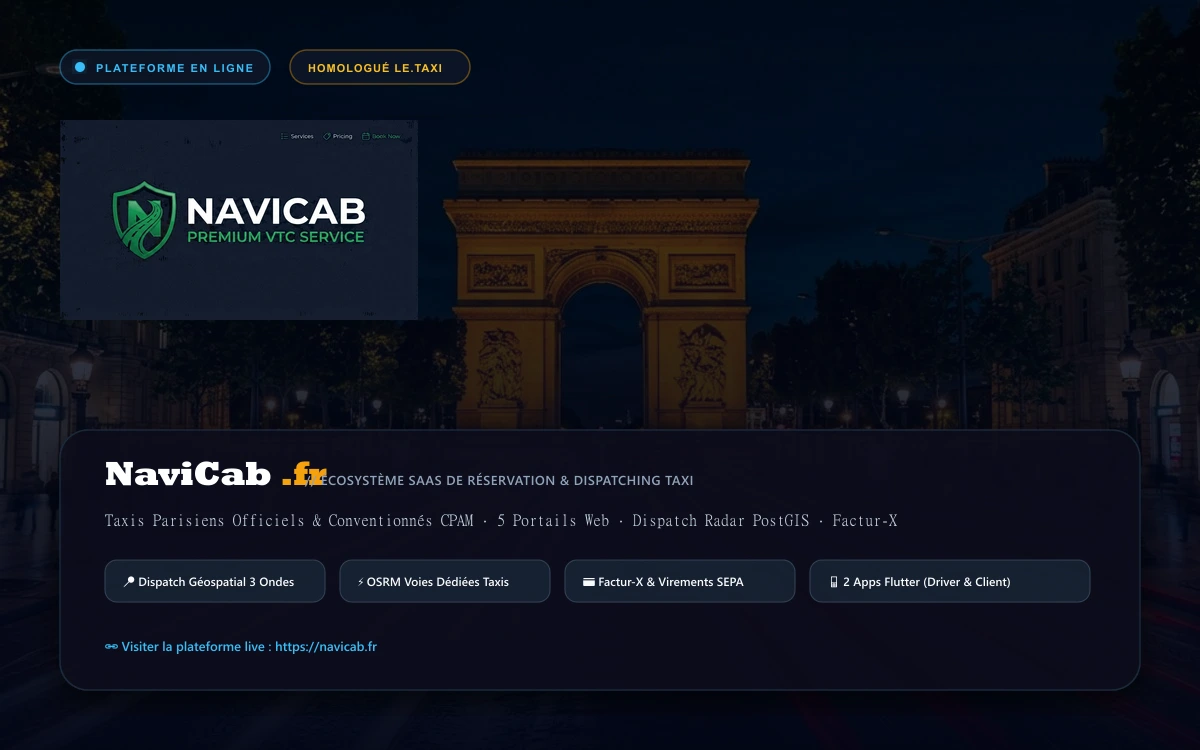
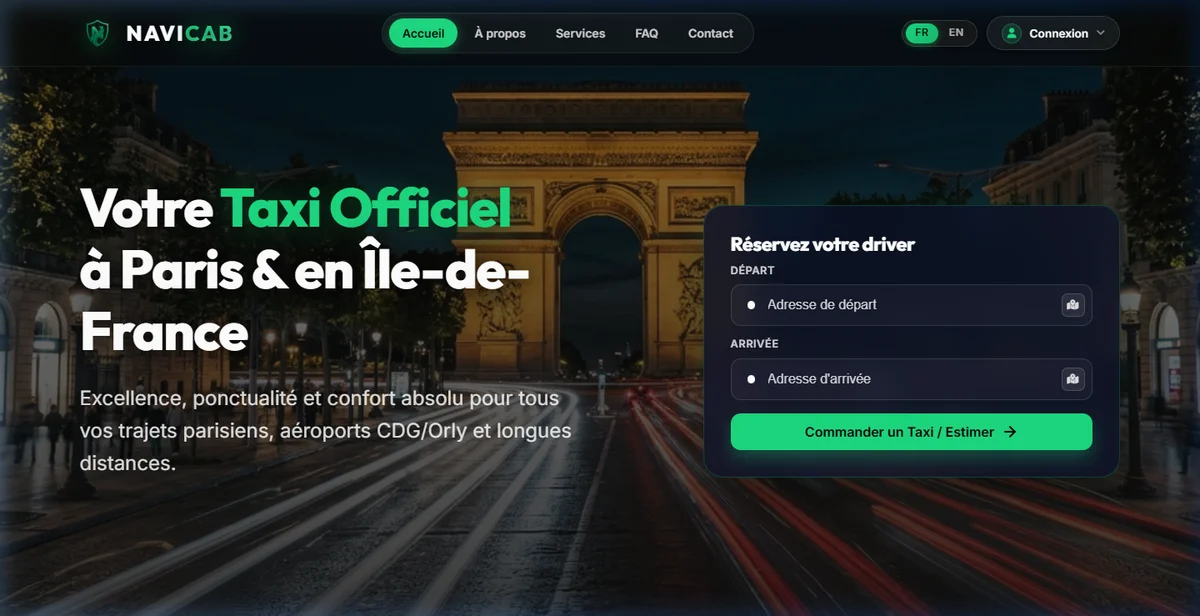
feat: add elegant NaviCab flagship spotlight section

diff --git a/src/components/site/NaviCabSpotlight.tsx b/src/components/site/NaviCabSpotlight.tsx
@@ -1,0 +1,138 @@
+import { motion } from "framer-motion";
+import { ArrowUpRight, CheckCircle2, Globe } from "lucide-react";
+import { useI18n } from "@/i18n/context";
+import { Section } from "./Services";
+
+export function NaviCabSpotlight() {
+  const { t } = useI18n();
+
+  return (
+    <Section id="spotlight" className="relative py-16 md:py-24 overflow-hidden scroll-mt-28">
+      {/* Ambient background glow */}
+      <div
+        className="absolute top-1/2 left-1/2 -translate-x-1/2 -translate-y-1/2 w-[700px] h-[500px] bg-brand/5 rounded-full blur-[140px] pointer-events-none"
+        aria-hidden
+      />
+
+      <motion.div
+        initial={{ opacity: 0, y: 30 }}
+        whileInView={{ opacity: 1, y: 0 }}
+        viewport={{ once: true, margin: "-60px" }}
+        transition={{ duration: 0.6 }}
+        className="relative overflow-hidden rounded-3xl md:rounded-[32px] bg-gradient-to-br from-[oklch(0.08_0.025_260)] via-[oklch(0.065_0.02_260)] to-[oklch(0.05_0.015_260)] border border-border/70 shadow-[0_20px_80px_-20px_oklch(0.6_0.22_265/0.2)] transition-all duration-500 hover:border-brand/40"
+      >
+        {/* Subtle grid pattern overlay */}
+        <div
+          className="absolute inset-0 opacity-[0.03] pointer-events-none bg-[radial-gradient(var(--foreground)_1px,transparent_1px)] [background-size:16px_16px]"
+          aria-hidden
+        />
+
+        <div className="relative z-10 grid grid-cols-1 lg:grid-cols-12 gap-8 lg:gap-12 items-center p-8 sm:p-10 md:p-12 lg:p-14">
+          {/* Left: Direct & concise information */}
+          <div className="lg:col-span-7 flex flex-col justify-center space-y-6">
+            <div className="flex flex-wrap items-center gap-3">
+              <span className="inline-flex items-center gap-2 px-3.5 py-1.5 rounded-full bg-brand/10 border border-brand/25 text-brand font-mono text-[11px] uppercase tracking-wider font-semibold">
+                <span className="relative flex h-2 w-2">
+                  <span className="animate-ping absolute inline-flex h-full w-full rounded-full bg-brand opacity-75" />
+                  <span className="relative inline-flex rounded-full h-2 w-2 bg-brand" />
+                </span>
+                {t.spotlight.badge}
+              </span>
+              <span className="inline-flex items-center gap-2 px-3 py-1 rounded-full bg-emerald-500/10 border border-emerald-500/20 text-emerald-400 font-mono text-[11px] tracking-wide">
+                <span className="h-1.5 w-1.5 rounded-full bg-emerald-400" />
+                {t.spotlight.liveStatus}
+              </span>
+            </div>
+
+            <div>
+              <h3 className="font-display text-3xl sm:text-4xl lg:text-5xl font-bold text-foreground tracking-tight">
+                {t.spotlight.title}
+              </h3>
+              <p className="text-base sm:text-lg font-medium text-brand/90 mt-2">
+                {t.spotlight.tagline}
+              </p>
+            </div>
+
+            <p className="text-sm sm:text-base text-muted-foreground/85 leading-relaxed max-w-xl">
+              {t.spotlight.description}
+            </p>
+
+            <div className="flex flex-wrap gap-2.5 pt-1">
+              {t.spotlight.tags.map((tag, idx) => (
+                <div
+                  key={idx}
+                  className="inline-flex items-center gap-2 px-3.5 py-1.5 rounded-xl bg-surface/70 border border-border/60 text-xs sm:text-sm text-foreground/80 font-mono backdrop-blur-sm"
+                >
+                  <CheckCircle2 size={14} className="text-brand shrink-0" />
+                  <span>{tag}</span>
+                </div>
+              ))}
+            </div>
+
+            <div className="pt-2">
+              <a
+                href="https://navicab.fr"
+                target="_blank"
+                rel="noopener noreferrer"
+                className="group inline-flex items-center gap-3 px-7 py-3.5 rounded-2xl bg-brand text-primary-foreground font-semibold shadow-[0_10px_35px_-10px_oklch(0.6_0.22_265/0.4)] hover:bg-brand/90 hover:shadow-[0_15px_45px_-10px_oklch(0.6_0.22_265/0.6)] transition-all duration-300 hover:-translate-y-0.5"
+              >
+                <span>{t.spotlight.cta}</span>
+                <ArrowUpRight
+                  size={18}
+                  className="transition-transform duration-300 group-hover:translate-x-0.5 group-hover:-translate-y-0.5"
+                />
+              </a>
+            </div>
+          </div>
+
+          {/* Right: Clean browser mockup */}
+          <div className="lg:col-span-5 flex justify-center">
+            <motion.div
+              initial={{ opacity: 0, scale: 0.96 }}
+              whileInView={{ opacity: 1, scale: 1 }}
+              viewport={{ once: true }}
+              transition={{ duration: 0.6, delay: 0.1 }}
+              className="w-full max-w-md lg:max-w-none rounded-2xl overflow-hidden border border-border/80 bg-surface/90 shadow-2xl group transition-all duration-500 hover:border-brand/40 hover:shadow-[0_20px_60px_-20px_oklch(0.6_0.22_265/0.3)]"
+            >
+              {/* Browser window top bar */}
+              <div className="flex items-center justify-between px-4 py-3 bg-[oklch(0.06_0.02_260)] border-b border-border/60">
+                <div className="flex items-center gap-1.5">
+                  <span className="w-2.5 h-2.5 rounded-full bg-red-500/70" />
+                  <span className="w-2.5 h-2.5 rounded-full bg-amber-500/70" />
+                  <span className="w-2.5 h-2.5 rounded-full bg-emerald-500/70" />
+                </div>
+                <div className="flex items-center gap-2 px-3 py-1 rounded-md bg-surface/80 border border-border/50 text-[11px] font-mono text-muted-foreground/80">
+                  <Globe size={11} className="text-brand" />
+                  <span>navicab.fr</span>
+                </div>
+                <div className="w-8" />
+              </div>
+
+              {/* Preview image */}
+              <a
+                href="https://navicab.fr"
+                target="_blank"
+                rel="noopener noreferrer"
+                className="block relative overflow-hidden aspect-[16/11] bg-surface select-none group"
+              >
+                <img
+                  src="/portfolio/navicab.fr_.webp"
+                  alt="NaviCab - Plateforme SaaS de Dispatch Taxi"
+                  className="w-full h-full object-cover object-top transition-transform duration-700 group-hover:scale-105"
+                  loading="lazy"
+                  decoding="async"
+                />
+                <div className="absolute inset-0 bg-gradient-to-t from-[oklch(0.05_0.015_260)]/80 via-transparent to-transparent opacity-60 group-hover:opacity-20 transition-opacity" />
+                <div className="absolute inset-0 flex items-center justify-center opacity-0 group-hover:opacity-100 transition-opacity duration-300 bg-black/40 backdrop-blur-[2px]">
+                  <span className="inline-flex items-center gap-2 px-4 py-2 rounded-xl bg-brand text-primary-foreground text-xs font-semibold shadow-xl">
+                    Ouvrir navicab.fr <ArrowUpRight size={14} />
+                  </span>
+                </div>
+              </a>
+            </motion.div>
+          </div>
+        </div>
+      </motion.div>
+    </Section>
+  );
+}

diff --git a/src/i18n/translations.ts b/src/i18n/translations.ts
@@ -517,6 +517,19 @@ const en = {
       },
     ],
   },
+  spotlight: {
+    badge: "Flagship Co-Development · Enterprise SaaS",
+    title: "NaviCab",
+    tagline: "Real-Time Taxi Dispatch & Booking SaaS Platform",
+    description: "Engineered in technical collaboration with TY Dev, NaviCab connects passengers, drivers, and B2B corporate partners across Île-de-France through intelligent radar dispatch and automated billing.",
+    tags: [
+      "Real-Time Radar & GPS Dispatch",
+      "5 Dedicated Portals & Apps",
+      "Automated Invoicing & SEPA Payouts",
+    ],
+    liveStatus: "Live in Production",
+    cta: "Explore Platform",
+  },
   testimonials: {
     title: "Client Reviews",
     subtitle: "Real feedback from our clients published on our Instagram page.",
@@ -1270,6 +1283,19 @@ const fr: typeof en = {
         url: "https://sylvester-mobile-detailing.ty-dev.site/",
       },
     ],
+  },
+  spotlight: {
+    badge: "Co-réalisation Phare · SaaS Enterprise",
+    title: "NaviCab",
+    tagline: "L'Écosystème SaaS de Dispatch & Réservation Taxi en Direct",
+    description: "Conçue et développée en collaboration technique avec TY Dev, NaviCab relie passagers, chauffeurs et partenaires B2B en temps réel grâce à un algorithme de dispatch radar instantané et une gestion financière automatisée.",
+    tags: [
+      "Dispatch Radar & GPS en direct",
+      "5 Portails Dédiés Web & Mobile",
+      "Facturation & Automatisation Financière",
+    ],
+    liveStatus: "Plateforme en production",
+    cta: "Découvrir la plateforme",
   },
   testimonials: {
     title: "Avis Clients",

diff --git a/src/routes/index.tsx b/src/routes/index.tsx
@@ -3,6 +3,7 @@ import { Hero } from "@/components/site/Hero";
 import { Services } from "@/components/site/Services";
 import { About } from "@/components/site/About";
 import { Portfolio } from "@/components/site/Portfolio";
+import { NaviCabSpotlight } from "@/components/site/NaviCabSpotlight";
 import { Demos } from "@/components/site/Demos";
 import { Testimonials } from "@/components/site/Testimonials";
 import { WhyUs } from "@/components/site/WhyUs";
@@ -44,6 +45,7 @@ function Index() {
       <About />
       <Services />
       <Portfolio />
+      <NaviCabSpotlight />
       <Testimonials />
       <Demos />
       <WhyUs />
